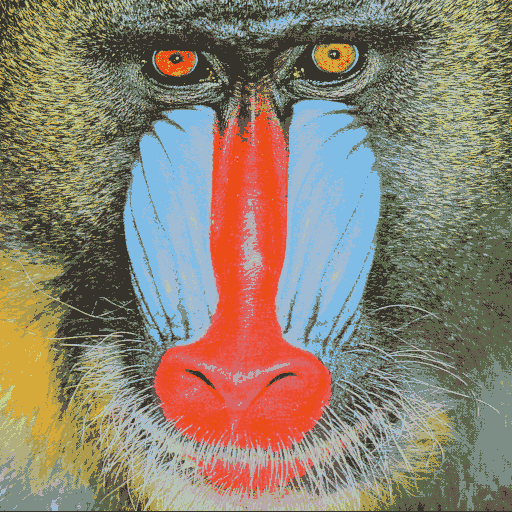
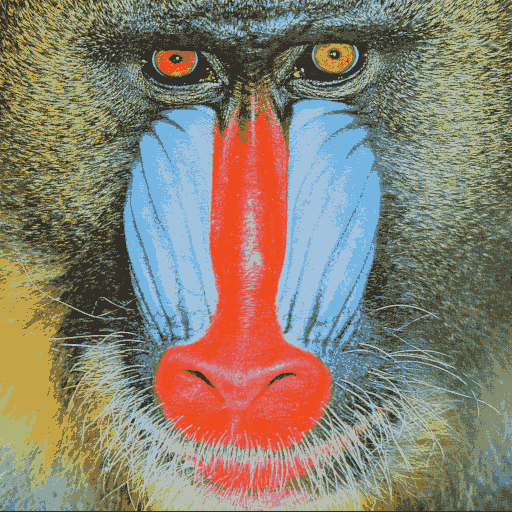
finish Kmeans in PA4; score: 50/50

diff --git a/PA4/kmeans/kmeans.py b/PA4/kmeans/kmeans.py
@@ -102,25 +102,36 @@ class KMeans():
         y = np.zeros(N)
         centroids = x[self.centers]
         old_centroids = centroids
-
+        old_J = self.obj_value(centroids, x, y)
         for i in range(self.max_iter):
             y = decide_class(centroids, x)
             centroids = self.update_centroids(x, y, centroids)
-            if self.isconvergent(old_centroids, centroids):
+            J = self.obj_value(centroids, x, y)
+            if self.isconvergent(old_J, J):
                 break
             else:
-                old_centroids = centroids
+                old_J = J
                 continue
         self.max_iter = i + 1
         # DO NOT CHANGE CODE BELOW THIS LINE
         return centroids, y, self.max_iter
 
-    def isconvergent(self, old_centroids, centroids):
-        diff = np.sum((old_centroids - centroids) ** 2, axis=1) ** 0.5
-        if self.e > diff.max():
+    def isconvergent(self, old_J, J):
+        diff = np.abs(old_J - J)
+        if self.e >= diff:
             return True
         else:
             return False
+
+    def obj_value(self, centroids, x, y):
+        J = 0
+        for i in range(self.n_cluster):
+            idx = np.argwhere(y == i)
+            idx = idx.reshape(len(idx))
+            if len(idx) > 0:
+                data_c_i = x[idx]
+                J += np.sum(Euclidean_distance(centroids[i], data_c_i)**2)
+        return J
 
     def update_centroids(self, x, y, centroids):
         N, D = x.shape
@@ -198,10 +209,10 @@ class KMeansClassifier():
 
         # DONOT CHANGE CODE ABOVE THIS LINE
         kmeans = KMeans(self.n_cluster, self.max_iter, self.e, self.generator)
-        centroids, kmeans_y, _ = kmeans.fit(x, centroid_func)
+        centroids, class_assign, iter_num = kmeans.fit(x, centroid_func)
         centroid_labels = np.zeros(self.n_cluster, dtype=int)
         for i in range(self.n_cluster):
-            idx = np.argwhere(kmeans_y == y)
+            idx = np.argwhere(class_assign == i)
             idx = idx.reshape(len(idx))
             label_i = y[idx].tolist()
             if len(label_i) > 0:
